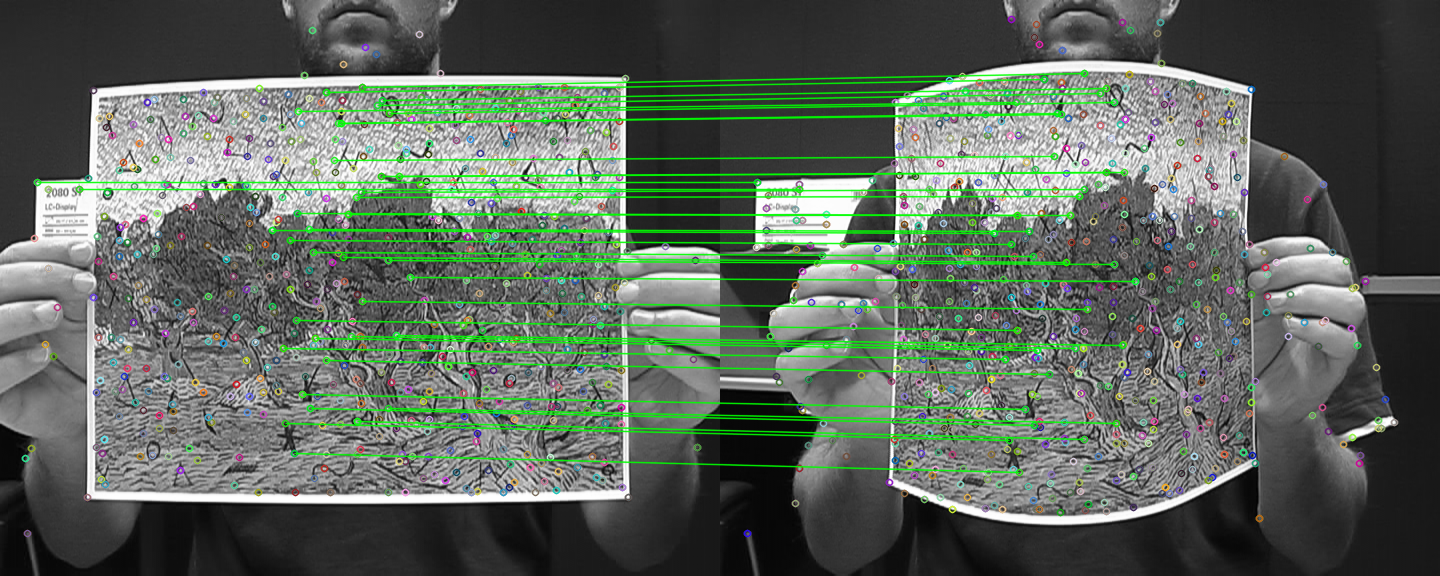
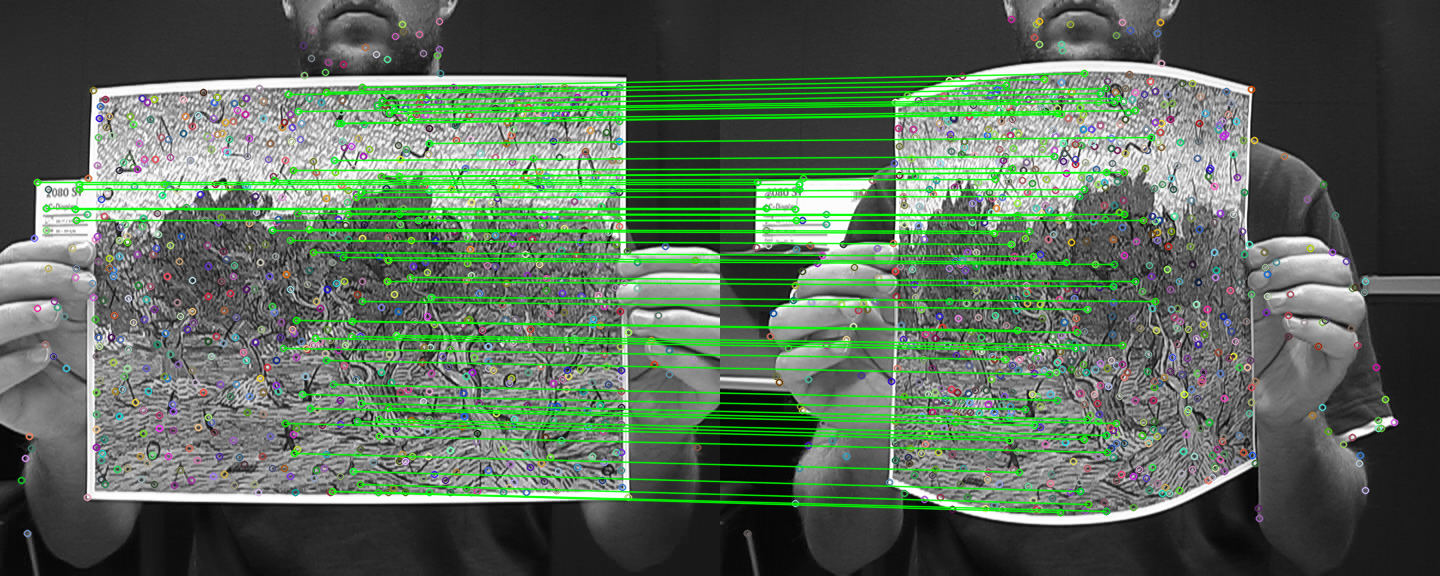
backup

diff --git a/example/orbextract.cpp b/example/orbextract.cpp
@@ -45,7 +45,7 @@ int main()
     string file1 = "./data/draw1.png";      // 2500 28  15
     string file2 = "./data/draw2.png";
     /**************** 配置信息 ******************/
-    int nFeatures =2500;        // 特征点数量 800
+    int nFeatures =3500;        // 特征点数量 800
     float fScaleFactor =1.2;    // 图像金字塔的缩放尺度
     int nLevels =8;             // 金字塔层数
     int fIniThFAST =28;         // 提取FAST角点的阈值  两个阈值进行选择 18  8
